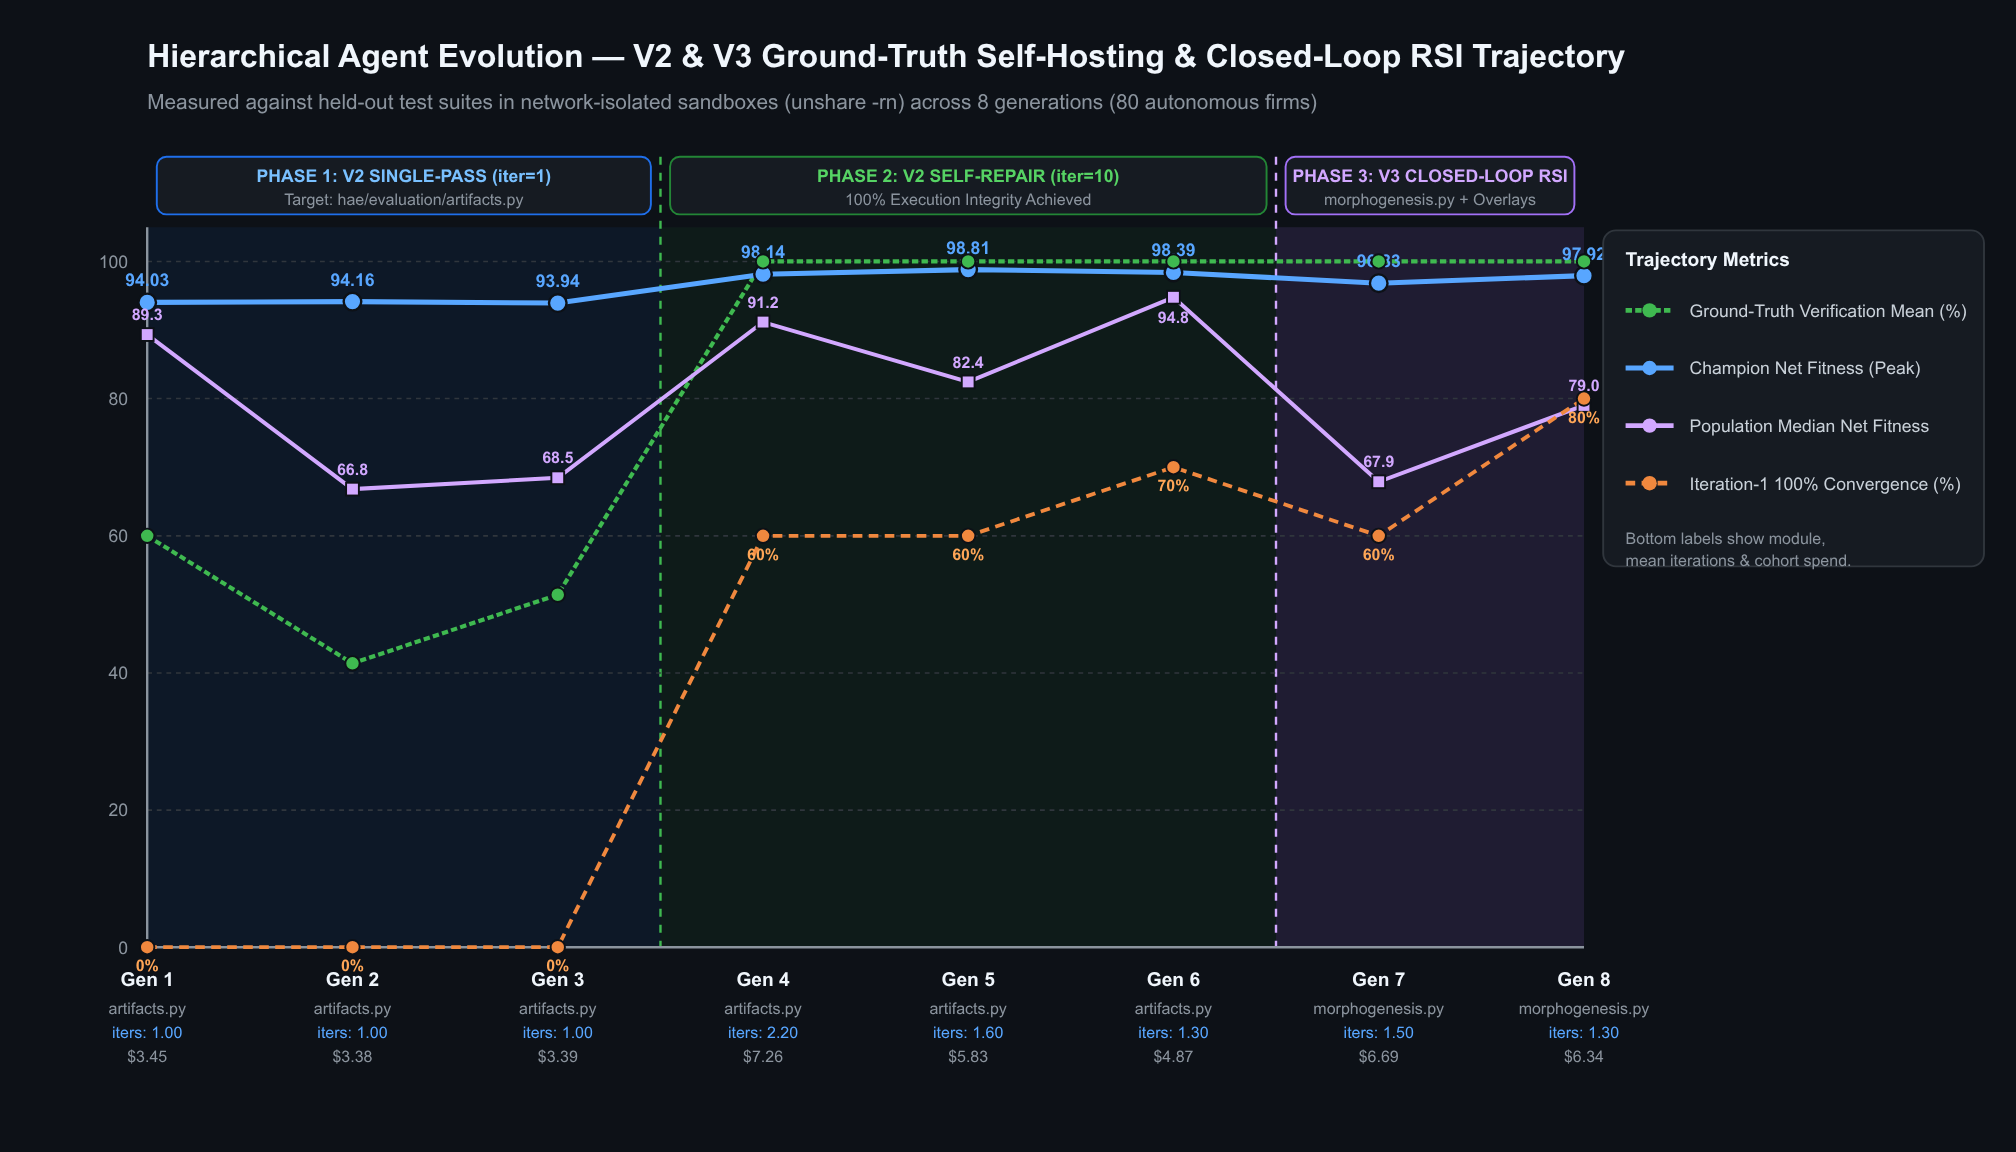
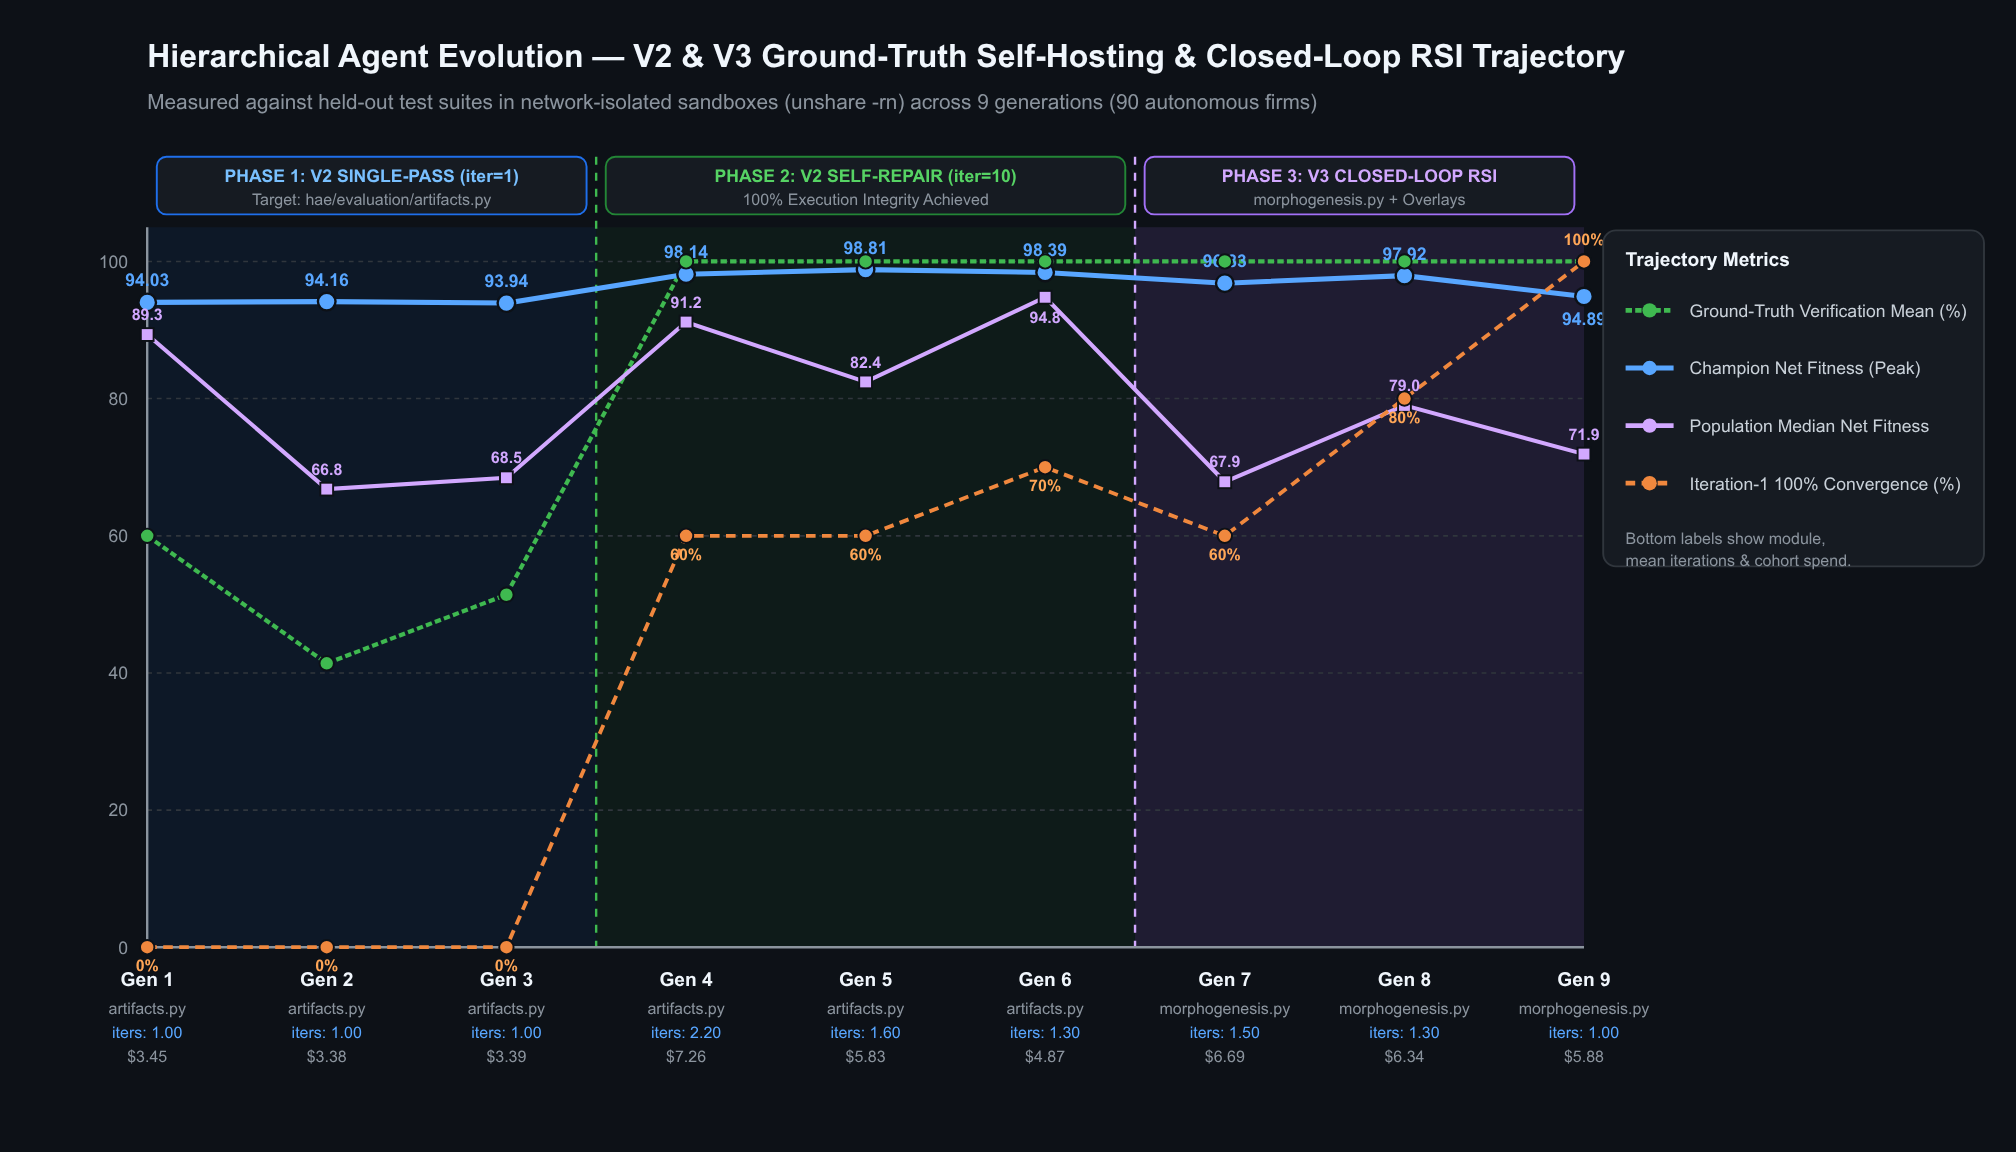
docs(v2-v3): finalize 9-generation evolutionary trajectory chart and READMEs with Gen 9 results

diff --git a/scripts/generate_v2_v3_trajectory_chart.py b/scripts/generate_v2_v3_trajectory_chart.py
@@ -173,8 +173,10 @@ def build_svg(rows):
 
         # Peak Net circle + label
         ypk = y_of(r["peak_net"])
+        yit = y_of(r["iter1_rate"])
         parts.append(f'<circle cx="{xx}" cy="{ypk}" r="5.5" fill="#58a6ff" stroke="#0d1117" stroke-width="1.5"/>')
-        parts.append(f'<text x="{xx}" y="{ypk - 10}" fill="#58a6ff" font-family="sans-serif" font-size="11" font-weight="bold" text-anchor="middle">{r["peak_net"]:.2f}</text>')
+        pk_label_y = ypk + 18 if r["iter1_rate"] >= 95 else ypk - 10
+        parts.append(f'<text x="{xx}" y="{pk_label_y}" fill="#58a6ff" font-family="sans-serif" font-size="11" font-weight="bold" text-anchor="middle">{r["peak_net"]:.2f}</text>')
 
         # Median Net square + label
         ymd = y_of(r["median_net"])
@@ -187,9 +189,9 @@ def build_svg(rows):
         parts.append(f'<circle cx="{xx}" cy="{yvr}" r="4.5" fill="#3fb950" stroke="#0d1117" stroke-width="1.2"/>')
 
         # Iteration-1 convergence triangle + label
-        yit = y_of(r["iter1_rate"])
         parts.append(f'<circle cx="{xx}" cy="{yit}" r="4.5" fill="#f0883e" stroke="#0d1117" stroke-width="1.2"/>')
-        parts.append(f'<text x="{xx}" y="{yit + 15}" fill="#ffa657" font-family="sans-serif" font-size="10" font-weight="bold" text-anchor="middle">{r["iter1_rate"]:.0f}%</text>')
+        it_label_y = yit - 10 if r["iter1_rate"] >= 95 else yit + 15
+        parts.append(f'<text x="{xx}" y="{it_label_y}" fill="#ffa657" font-family="sans-serif" font-size="10" font-weight="bold" text-anchor="middle">{r["iter1_rate"]:.0f}%</text>')
 
     # Legend on the right
     lx = PAD_L + plot_w + 22

diff --git a/experiments/v2/README.md b/experiments/v2/README.md
@@ -23,7 +23,7 @@ All six generations executed with `carry_artifacts: false` (each firm starts fro
 | **Gen 6** | **Campaign 2 (`iter=10`)** | [`gen6.json`](../../configs/generations/gen6.json) | **`98.39`** (`gen_6_crossover_3`) | **`87.48`** | **`10 / 10` (`100%`)** | **`100.0%`** | **`1.30`** | `10 / 10` (`100%`) | **`$4.87`** | `COMPLETE` |
 | **Gen 7** | **V3 Level-3 RSI Seed (`morphogenesis.py`)** | [`gen7.json`](../../configs/generations/gen7.json) | **`96.83`** (`gen_7_pareto_1`) | `71.77` | **`10 / 10` (`100%`)** | **`100.0%`** | `1.50` | `10 / 10` (`100%`) | `$6.69` | `COMPLETE` |
 | **Gen 8** | **V3 Closed-Loop Bootstrap #1 (`morphogenesis.py`)** | [`gen8.json`](../../configs/generations/gen8.json) | **`97.92`** (`gen_8_pareto_2`) | `74.52` (`79.00` med) | **`10 / 10` (`100%`)** | **`100.0%`** | **`1.30`** | `10 / 10` (`100%`) | `$6.34` | `COMPLETE` |
-| **Gen 9** | **V3 Closed-Loop Bootstrap #2 (`morphogenesis.py`)** | [`gen9.json`](../../configs/generations/gen9.json) | *Running (`86.96` so far)* | *Running* | *`4/4` (`100%` so far)* | *`100.0%`* | *`1.00`* | *In Progress* | *Running* | `RUNNING` |
+| **Gen 9** | **V3 Closed-Loop Bootstrap #2 (`morphogenesis.py`)** | [`gen9.json`](../../configs/generations/gen9.json) | **`94.89`** (`gen_9_crossover_1`) | `72.71` (`71.91` med) | **`10 / 10` (`100%`)** | **`100.0%`** | **`1.00`** | `10 / 10` (`100%`) | **`$5.88`** | `COMPLETE` |
 
 ![V2 & V3 Ground-Truth Self-Hosting & Closed-Loop RSI Trajectory](assets/v2_v3_evolutionary_trajectory.png)
 
@@ -58,6 +58,10 @@ All six generations executed with `carry_artifacts: false` (each firm starts fro
 ### Finding 5 — Multi-Department Workspace Protection (`Monotonic Verification Guard`)
 - Live telemetry during Campaign 2 revealed a structural failure mode in multi-department agent organizations: upstream engineering departments (`Systems Engineering & Infrastructure Architecture`) frequently authored a `100.0%`-passing `hae/evaluation/artifacts.py`, only for downstream audit/verification departments (`Adversarial Audit & Red Team Verification` or `Formal Verification`) to overwrite `artifacts.py` with a mock stub or inline test script at the end of the pass.
 - Implementing the **Monotonic Verification Guard** in `AgentWorkspace.write_file` ([`hae/runtime/workspace.py`](../../hae/runtime/workspace.py)) resolved this permanently: whenever an agent attempts to overwrite a self-hosting target module with code that degrades its ground-truth verification score, `write_file` rejects the destructive overwrite and instructs the agent to write red-team/test suites to separate files (e.g. `tests/test_artifacts.py`).
+
+### Finding 6 — Level 3 Closed-Loop Recursive Self-Improvement (`Generations 7–9`: `60%` $\to$ `80%` $\to$ `100%` First-Shot Convergence)
+- In **V3 (`Generations 7–9`)**, competing organizations re-implemented HAE's core evolutionary breeding engine (`hae/genome/morphogenesis.py`: `MorphogenesisEngine` and `StructuralCrossoverEngine`). Verified `100.0%`-passing implementations were promoted into each firm's `genome.code_overlays` and dynamically loaded (`hae/runtime/overlay.py:get_overlay_class`) by `Breeder` to breed the subsequent generation.
+- Across two full closed-loop self-breeding cycles (`Gen 7` $\to$ `Gen 8` $\to$ `Gen 9`), **`30 / 30` (`100.0%`) firms achieved `100.0%` (`7/7`) ground-truth verification**, while **First-Shot (`Iteration 1/10`) Convergence climbed monotonically from `60%` (`6/10` in Gen 7) to `80%` (`8/10` in Gen 8) to a perfect `100%` (`10/10` in Gen 9, `Mean Iterations = 1.00`)**, and generational compute spend dropped continuously (`$6.69` $\to$ `$6.34` $\to$ `$5.88`).
 
 ---
 

diff --git a/README.md b/README.md
@@ -7,8 +7,8 @@
 [![LLM: Gemini 2.5 Flash & Pro](https://img.shields.io/badge/Vertex%20AI-Gemini%202.5-orange.svg)](https://cloud.google.com/vertex-ai)
 
 > [!IMPORTANT]
-> **V2 (`Generations 1–6`) is COMPLETE (`60 / 60` firms succeeded) and V3 Level-3 Closed-Loop RSI (`Generations 7–9`) is ACTIVE (`20 / 20` firms in Gen 7–8 achieved `100.0%` ground-truth test verification).**
-> V1 ran thirteen experiments on open-ended prose and was closed after audit. V2 rebuilt the platform around ground-truth self-hosting (`hae/evaluation/artifacts.py`), achieving **`100.0%` execution integrity across all `30 / 30` firms in Generations 4–6** (peak Net Fitness **`98.81`**). V3 closes the **Level-3 Recursive Self-Improvement (RSI) bootstrap loop**, where competing firms re-implement HAE's core evolutionary breeding engine (`hae/genome/morphogenesis.py`) into isolated `genome.code_overlays` and dynamically execute their own evolved `MorphogenesisEngine` and `StructuralCrossoverEngine` to breed subsequent generations (reaching **`97.92` Net Fitness** and **`80%` first-shot convergence** in Generation 8). See [`experiments/v2/README.md`](experiments/v2/README.md) and [`experiments/v3_rsi/CAMPAIGN_STATUS.md`](experiments/v3_rsi/CAMPAIGN_STATUS.md).
+> **Both V2 (`Generations 1–6`, `60 / 60` firms) and V3 Level-3 Closed-Loop RSI (`Generations 7–9`, `30 / 30` firms) are COMPLETE (`90 / 90` firms succeeded across 9 generations).**
+> V1 ran thirteen experiments on open-ended prose and was closed after audit. V2 rebuilt the platform around ground-truth self-hosting (`hae/evaluation/artifacts.py`), achieving **`100.0%` execution integrity across all `30 / 30` firms in Generations 4–6** (peak Net Fitness **`98.81`**). V3 closed the **Level-3 Recursive Self-Improvement (RSI) bootstrap loop**, where competing firms re-implemented HAE's core evolutionary breeding engine (`hae/genome/morphogenesis.py`) into isolated `genome.code_overlays` and dynamically executed their own evolved `MorphogenesisEngine` and `StructuralCrossoverEngine` to breed subsequent generations—achieving **`100.0%` (`30 / 30`) ground-truth verification**, **`97.92` peak Net Fitness**, and climbing monotonically from **`60%` (Gen 7) $\to$ `80%` (Gen 8) $\to$ `100%` (`10/10` in Gen 9) first-shot (`Iteration 1/10`) convergence**. See [`experiments/v2/README.md`](experiments/v2/README.md) and [`experiments/v3_rsi/CAMPAIGN_STATUS.md`](experiments/v3_rsi/CAMPAIGN_STATUS.md).
 
 ![V2 & V3 Ground-Truth Self-Hosting & Closed-Loop RSI Trajectory](assets/v2_v3_evolutionary_trajectory.png)
 

diff --git a/experiments/README.md b/experiments/README.md
@@ -8,7 +8,7 @@ generations sharing one platform architecture and one fitness function.
 |---|---|---|---|
 | **V1** | Pilot → Gen 10 (Gen 11 aborted) | **Closed** | [`v1/README.md`](v1/README.md) |
 | **V2** | Gen 1 → Gen 6 (`artifacts.py`, Single-Pass & Iterative Self-Repair) | **Complete (`60/60` firms, `100%` pass in Gen 4–6)** | [`v2/README.md`](v2/README.md) |
-| **V3 (Level-3 RSI)** | Gen 7 → Gen 9 (`morphogenesis.py` + Closed-Loop Self-Breeding Overlays) | **Gen 7–8 Complete (`20/20` at `100%`), Gen 9 Running** | [`v3_rsi/CAMPAIGN_STATUS.md`](v3_rsi/CAMPAIGN_STATUS.md) |
+| **V3 (Level-3 RSI)** | Gen 7 → Gen 9 (`morphogenesis.py` + Closed-Loop Self-Breeding Overlays) | **Complete (`30/30` at `100%`, `100%` First-Shot Convergence in Gen 9)** | [`v3_rsi/CAMPAIGN_STATUS.md`](v3_rsi/CAMPAIGN_STATUS.md) |
 
 ![V2 & V3 Ground-Truth Self-Hosting & Closed-Loop RSI Trajectory](v2/assets/v2_v3_evolutionary_trajectory.png)
 
